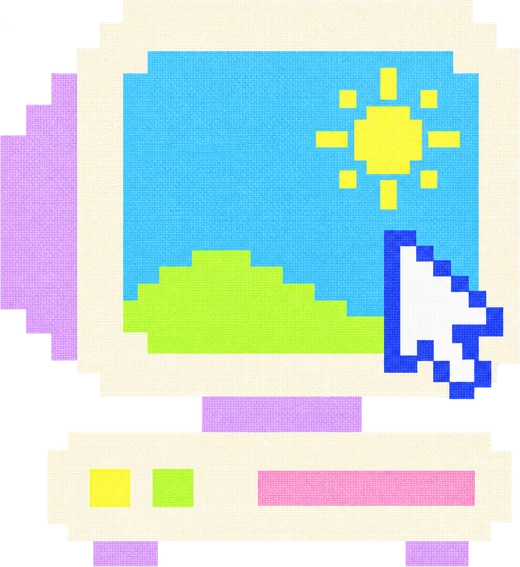
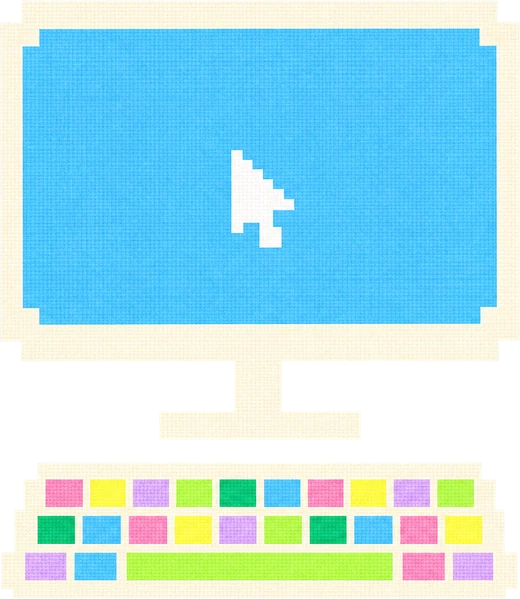
sites/dusk: smaller card graphics, a simpler computer, a notch laptop, a brain picker for models
the black notch mock becomes a pixel laptop with status chips; the models
section becomes a card where you swap the ai one bot runs on and see a
model per bot.

Claude-Session: https://claude.ai/code/session_01U69uFLMgJgS6MvZ1Fa28ZA

diff --git a/public/landing/home.css b/public/landing/home.css
@@ -144,18 +144,19 @@
 
 /* coloured cards */
 .tiles { display: grid; grid-template-columns: repeat(6, minmax(0, 1fr)); gap: 12px; }
-.tile { position: relative; grid-column: span 2; border-radius: 28px; padding: 32px; min-width: 0; min-height: 340px; overflow: hidden; display: flex; flex-direction: column; }
+.tile { position: relative; grid-column: span 2; border-radius: 28px; padding: 32px; min-width: 0; min-height: 300px; overflow: hidden; display: flex; flex-direction: column; }
 .tile.wide { grid-column: span 3; }
-.tile.wider { grid-column: span 4; min-height: 380px; }
+.tile.wider { grid-column: span 4; }
 .tile p { margin: 0; font-size: 16.5px; line-height: 1.5; letter-spacing: -0.01em; color: rgba(19, 19, 22, 0.7); }
 .t-sky { background: var(--sky); } .t-lemon { background: var(--lemon); } .t-lime { background: var(--lime); } .t-pink { background: var(--pink); } .t-lilac { background: var(--lilac); } .t-peach { background: var(--peach); } .t-cream { background: var(--cream); }
 .sticker { transition: transform 0.5s cubic-bezier(0.3, 1.5, 0.5, 1); }
 @media (hover: hover) { .tile:hover .sticker { transform: rotate(-4deg) scale(1.06); } }
-.tile.wide .tile-copy { max-width: 54%; }
-.tile.t-sky .sticker { position: absolute; right: 30px; bottom: 26px; width: 40%; height: auto; }
-.sticker.corner { position: absolute; right: 26px; top: 22px; width: 150px; height: auto; }
+.tile.wide .tile-copy, .tile.wider .tile-copy { max-width: 56%; }
+.sticker.side { position: absolute; right: 34px; bottom: 30px; width: min(32%, 196px); height: auto; }
+.tile.wider .sticker.side { width: min(30%, 208px); }
+.sticker.corner { position: absolute; right: 28px; top: 24px; width: 112px; height: auto; }
 .t-lemon .tile-copy { max-width: 62%; }
-.sticker.top { height: 158px; width: auto; align-self: flex-start; margin-bottom: auto; }
+.sticker.top { height: 118px; width: auto; align-self: flex-start; margin-bottom: auto; }
 .tile > h3 { margin-top: 30px; }
 .tile-copy.low { margin-top: auto; max-width: 440px; }
 .runs { list-style: none; margin: auto 0 0; padding: 26px 0 0; display: grid; gap: 6px; }
@@ -165,32 +166,43 @@
 .strip { display: flex; gap: 3px; flex: none; }
 .strip i { width: 6px; height: 6px; border-radius: 2px; background: var(--green); }
 .strip i.miss { background: #d9d5c3; }
-.relay { display: flex; align-items: center; gap: 10px; height: 158px; margin-bottom: auto; }
-.relay .bot { width: 78px; cursor: pointer; }
+.relay { display: flex; align-items: center; gap: 8px; height: 118px; margin-bottom: auto; }
+.relay .bot { width: 60px; cursor: pointer; }
 .relay i { position: relative; width: 34px; height: 24px; border-radius: 5px; background: #fff; box-shadow: inset 0 0 0 2px #f39ab6; animation: pass 2.4s ease-in-out infinite; }
 .relay i::after { content: ""; position: absolute; left: 9px; top: 3px; width: 13px; height: 13px; border-right: 2px solid #f39ab6; border-bottom: 2px solid #f39ab6; transform: rotate(45deg) translate(-3px, -3px); }
 .relay i:nth-of-type(2) { animation-delay: -1.2s; }
 @keyframes pass { 0%, 100% { transform: translateX(-5px); } 50% { transform: translateX(5px) rotate(4deg); } }
-.notch { position: absolute; left: 50%; top: 0; transform: translateX(-50%); width: min(500px, 88%); background: #000; color: #fff; border-radius: 0 0 26px 26px; padding: 16px 18px 14px; font-size: 14px; }
-.notch-chips { display: flex; flex-wrap: wrap; gap: 6px; margin-bottom: 8px; }
-.notch-chips span { display: inline-flex; align-items: center; gap: 7px; background: #1c1c1f; border-radius: 999px; padding: 6px 11px; font-size: 13px; color: #d9d9de; }
-.notch ul { list-style: none; margin: 0; padding: 0; }
-.notch li { display: flex; align-items: center; gap: 12px; padding: 8px 2px; }
-.notch .bot { width: 30px; }
-.notch li div { flex: 1; min-width: 0; }
-.notch li b { display: block; font-weight: 550; }
-.notch li span { display: block; color: #a4a4ad; font-size: 13px; }
-.notch .pill.yes { background: #fff; color: #000; font-size: 13px; }
+.glance { display: flex; flex-wrap: wrap; gap: 6px; margin-top: 22px !important; }
+.glance span { display: inline-flex; align-items: center; gap: 8px; background: #fff; border-radius: 999px; padding: 9px 13px; font-size: 14px; color: var(--ink); }
 
 /* models */
 .models { display: grid; grid-template-columns: minmax(0, 6fr) minmax(0, 5fr); gap: 64px; align-items: center; }
 .models .head { margin-bottom: 0; }
 .facts { list-style: none; margin: 36px 0 0; padding: 0; display: grid; gap: 18px; font-size: 16.5px; color: var(--text); max-width: 46ch; }
 .facts b { display: block; color: var(--ink); font-weight: 550; }
-.signin { display: grid; gap: 12px; width: min(440px, 100%); justify-self: end; }
-.si { display: flex; align-items: center; justify-content: center; gap: 12px; min-height: 60px; border-radius: 999px; background: #f0f0ee; font-size: 17px; font-weight: 500; }
-.more-models { display: flex; flex-wrap: wrap; justify-content: center; gap: 8px; margin: 0; }
-.more-models span { font: 400 12.5px/1 var(--mono); color: var(--ink-2); padding: 9px 12px; border-radius: 999px; box-shadow: inset 0 0 0 1px var(--line); }
+.brain { justify-self: end; width: min(500px, 100%); background: var(--lilac); border-radius: 28px; padding: 30px; }
+.brain-top { display: flex; align-items: center; gap: 18px; }
+.brain-bot { width: 84px; cursor: pointer; }
+.brain-top p { margin: 0; }
+.brain-top b { display: block; font-size: 28px; font-weight: 550; letter-spacing: -0.04em; line-height: 1.1; }
+.brain-top span { color: var(--text); font-size: 16px; }
+.brain-pick { display: grid; grid-template-columns: repeat(4, minmax(0, 1fr)); gap: 2px; margin-top: 24px; padding: 5px; border-radius: 999px; background: rgba(19, 19, 22, 0.07); }
+.brain-ind { background: #fff; }
+.brain-pick button { display: flex; align-items: center; justify-content: center; gap: 8px; min-height: 44px; font: 500 15px/1 var(--sans); color: var(--ink-2); background: none; border: 0; border-radius: 999px; cursor: pointer; transition: color 0.2s; }
+.brain-pick button[aria-selected="true"] { color: var(--ink); }
+html:not(.mk-ready) .brain-pick button[aria-selected="true"] { background: #fff; }
+.brain-line { margin: 18px 2px 0; min-height: 3em; font-size: 18px; line-height: 1.45; letter-spacing: -0.015em; color: #33333a; }
+.brain-line b { font-weight: 550; color: var(--ink); }
+.brain-label { font: 400 12.5px/1 var(--mono); color: var(--ink-2); margin: 26px 2px 10px; }
+.brain-team { list-style: none; margin: 0; padding: 0; display: grid; gap: 6px; }
+.brain-team li { display: flex; align-items: center; gap: 12px; background: rgba(255, 255, 255, 0.75); border-radius: 14px; padding: 9px 12px; font-size: 15px; }
+.brain-team .bot { width: 28px; cursor: pointer; }
+.brain-team b { font-weight: 550; }
+.brain-team span { color: var(--text); }
+.brain-team em { margin-left: auto; display: inline-flex; align-items: center; gap: 8px; font-style: normal; font-weight: 500; }
+.px-deepseek { background-color: #4d6bfe; }
+.more-models { display: flex; flex-wrap: wrap; gap: 6px; margin: 0; }
+.more-models span { font: 400 12.5px/1 var(--mono); color: var(--ink-2); padding: 9px 12px; border-radius: 999px; background: rgba(255, 255, 255, 0.75); }
 
 /* connectors */
 .belt { display: grid; gap: 10px; overflow: hidden; padding: 4px 0; -webkit-mask-image: linear-gradient(90deg, transparent, #000 9%, #000 91%, transparent); mask-image: linear-gradient(90deg, transparent, #000 9%, #000 91%, transparent); }
@@ -319,7 +331,7 @@ html:not(.mk-ready) .places button[aria-selected="true"] { background: var(--ink
   .peek { padding: 40px 32px 220px; min-height: 0; align-items: flex-start; }
   .peek-bot { width: 78%; right: -12%; bottom: -34%; }
   .models, .where, .faq { grid-template-columns: 1fr; gap: 32px; }
-  .signin { justify-self: start; }
+  .brain { justify-self: start; }
   .tile, .tile.wide, .tile.wider { grid-column: 1 / -1; }
   .steps { grid-template-columns: 1fr; }
   .day { padding: 20px 14px 150px; }
@@ -343,11 +355,9 @@ html:not(.mk-ready) .places button[aria-selected="true"] { background: var(--ink
   .app-head { padding-top: 1.2em; }
   .screen-card, .msg.me { max-width: none; width: auto; }
   .screen-card { align-self: stretch; }
-  .tile.wide .tile-copy, .t-lemon .tile-copy { max-width: none; }
-  .tile.t-sky { min-height: 460px; }
-  .tile.t-sky .sticker { width: 62%; right: 16px; bottom: 16px; }
-  .sticker.corner { position: static; width: 120px; margin-bottom: 18px; }
-  .tile.wider { min-height: 400px; }
+  .tile.wide .tile-copy, .tile.wider .tile-copy, .t-lemon .tile-copy { max-width: none; }
+  .sticker.side, .tile.wider .sticker.side { position: static; width: 150px; align-self: flex-end; margin-top: 26px; }
+  .sticker.corner { position: static; width: 100px; margin-bottom: 18px; }
   .steps > li { grid-template-columns: 1fr; gap: 22px; }
 }
 @media (prefers-reduced-motion: reduce) {

diff --git a/public/landing/index.html b/public/landing/index.html
@@ -14,7 +14,7 @@
 <link rel="preload" href="/fonts/general-sans.woff2" as="font" type="font/woff2" crossorigin>
 <link rel="stylesheet" href="/site.css?v=c4183a86">
 <link rel="stylesheet" href="/motion-kit-v2.css?v=21fb5bf1">
-<link rel="stylesheet" href="/home.css?v=c653e66d">
+<link rel="stylesheet" href="/home.css?v=7545d9a2">
 </head>
 <body class="is-home">
 <header class="bar"><a class="brand" href="/"><img src="/art/cursor-88.webp" alt="" width="28" height="28">dusk bot</a><nav><a href="/download">download</a><a href="/docs">docs</a><a href="/pricing">pricing</a><a class="cta" href="https://app.dusk.bot">sign in</a></nav></header>
@@ -124,7 +124,7 @@
   <div class="tiles">
     <article class="tile t-sky wide" data-mk-reveal>
       <div class="tile-copy"><h3>each bot gets its own computer</h3><p>it signs in to sites and clicks through them like you would. watch it live, or take the mouse back any time.</p></div>
-      <img class="sticker" src="/art/s-computer.webp?v=dac42fe1" alt="" width="520" height="567">
+      <img class="sticker side" src="/art/s-computer.webp?v=690cf13b" alt="" width="520" height="599">
     </article>
     <article class="tile t-lemon wide" data-mk-reveal>
       <img class="sticker corner" src="/art/s-clock.webp?v=67ca93f2" alt="" width="520" height="502">
@@ -148,14 +148,10 @@
       <h3>they ask before the scary stuff</h3><p>sending, buying, deleting: a bot stops and waits for your yes.</p>
     </article>
     <article class="tile t-lilac wider" data-mk-reveal>
-      <div class="notch">
-        <div class="notch-chips"><span><i class="dot is-ask"></i>needs you 1</span><span><i class="dot is-work"></i>working 2</span><span><i class="dot is-done"></i>done 1</span></div>
-        <ul>
-          <li><svg class="bot c-purple" viewBox="0 0 100 100" aria-hidden="true"><g class="body"><circle cx="31" cy="31" r="24"/><circle cx="69" cy="31" r="24"/><circle cx="31" cy="69" r="24"/><circle cx="69" cy="69" r="24"/><rect x="28" y="28" width="44" height="44"/></g><g class="eyes"><rect x="36" y="38" width="9.5" height="23" rx="4.75"/><rect x="54.5" y="38" width="9.5" height="23" rx="4.75"/></g></svg><div><b>quill</b><span>wants to run a command</span></div><em class="pill yes">allow</em></li>
-          <li><svg class="bot c-blue" viewBox="0 0 100 100" aria-hidden="true"><g class="body"><circle cx="50" cy="50" r="46"/></g><g class="eyes"><rect x="36" y="38" width="9.5" height="23" rx="4.75"/><rect x="54.5" y="38" width="9.5" height="23" rx="4.75"/></g></svg><div><b>nova</b><span>comparing 14 flights to lisbon</span></div></li>
-        </ul>
+      <div class="tile-copy"><h3>they live in your notch</h3><p>one glance at the top of your screen: who's working, who's done, who needs you.</p>
+        <p class="glance"><span><i class="dot is-ask"></i>needs you 1</span><span><i class="dot is-work"></i>working 2</span><span><i class="dot is-done"></i>done 1</span></p>
       </div>
-      <div class="tile-copy low"><h3>they live in your notch</h3><p>one glance at the top of your screen: who's working, who's done, who needs you.</p></div>
+      <img class="sticker side" src="/art/s-notch.webp?v=0b197880" alt="" width="520" height="381">
     </article>
     <article class="tile t-cream" data-mk-reveal>
       <img class="sticker top" src="/art/s-phone.webp?v=550f01a8" alt="" width="520" height="387">
@@ -170,17 +166,30 @@
     <p data-mk-reveal>dusk bot has no model of its own. sign in with the account you already have, and your bots run on it. no second bill from us, no markup.</p>
     <ul class="facts" data-mk-reveal data-mk-stagger="70">
       <li><b>your login, your plan</b>replies go straight from your machine to your provider.</li>
-      <li><b>a model per bot</b>one for writing, one for code, something cheap for the chores.</li>
       <li><b>swap any time</b>the bot keeps its chats, files and memory.</li>
     </ul>
   </div>
-  <div class="signin" data-mk-reveal data-mk-stagger="60">
-    <span class="si"><i class="px px-claude"></i>continue with claude</span>
-    <span class="si"><i class="px px-chatgpt"></i>continue with chatgpt</span>
-    <span class="si"><i class="px px-gemini"></i>continue with gemini</span>
-    <span class="si"><i class="px px-grok"></i>continue with grok</span>
-    <p class="or"><span>also</span></p>
-    <p class="more-models"><span>cursor</span><span>copilot</span><span>deepseek</span><span>kimi</span><span>qwen</span><span>opencode</span><span>cline</span><span>your own api key</span></p>
+  <div class="brain" data-mk-tabs data-mk-reveal>
+    <div class="brain-top"><svg class="bot c-blue brain-bot" viewBox="0 0 100 100" aria-hidden="true"><g class="body"><circle cx="50" cy="50" r="46"/></g><g class="eyes"><rect x="36" y="38" width="9.5" height="23" rx="4.75"/><rect x="54.5" y="38" width="9.5" height="23" rx="4.75"/></g></svg><p><b>nova</b><span>same bot. pick its brain.</span></p></div>
+    <div class="brain-pick" role="tablist" aria-label="the ai nova runs on">
+      <span class="brain-ind" data-mk-indicator aria-hidden="true"></span>
+      <button type="button" role="tab" id="bt-claude" aria-controls="bp-claude" aria-selected="true"><i class="px px-claude"></i>claude</button>
+      <button type="button" role="tab" id="bt-chatgpt" aria-controls="bp-chatgpt" aria-selected="false"><i class="px px-chatgpt"></i>chatgpt</button>
+      <button type="button" role="tab" id="bt-gemini" aria-controls="bp-gemini" aria-selected="false"><i class="px px-gemini"></i>gemini</button>
+      <button type="button" role="tab" id="bt-grok" aria-controls="bp-grok" aria-selected="false"><i class="px px-grok"></i>grok</button>
+    </div>
+    <p class="brain-line" role="tabpanel" id="bp-claude" aria-labelledby="bt-claude" tabindex="0">nova is on <b>claude</b>, signed in as you. we charge $0 for that.</p>
+    <p class="brain-line" role="tabpanel" id="bp-chatgpt" aria-labelledby="bt-chatgpt" tabindex="0">nova is on <b>chatgpt</b> now. it still remembers you like the aisle seat.</p>
+    <p class="brain-line" role="tabpanel" id="bp-gemini" aria-labelledby="bt-gemini" tabindex="0">nova is on <b>gemini</b> now. same chats, same files, nothing to move.</p>
+    <p class="brain-line" role="tabpanel" id="bp-grok" aria-labelledby="bt-grok" tabindex="0">nova is on <b>grok</b> now. took one click. nobody had to migrate anything.</p>
+    <p class="brain-label">or give every bot its own</p>
+    <ul class="brain-team">
+      <li><svg class="bot c-pink" viewBox="0 0 100 100" aria-hidden="true"><g class="body"><path d="M50 90C20 68 5 51 5 32 5 18 16 7 30 7c9 0 16 5 20 12 4-7 11-12 20-12 14 0 25 11 25 25 0 19-15 36-45 58z"/></g><g class="eyes"><rect x="36" y="30" width="9.5" height="23" rx="4.75"/><rect x="54.5" y="30" width="9.5" height="23" rx="4.75"/></g></svg><b>juno</b><span>writes like you</span><em><i class="px px-claude"></i>claude</em></li>
+      <li><svg class="bot c-orange" viewBox="0 0 100 100" aria-hidden="true"><g class="body"><path d="M10 50 30 15.4h40L90 50 70 84.6H30z" stroke-width="10" stroke-linejoin="round"/></g><g class="eyes"><rect x="36" y="38" width="9.5" height="23" rx="4.75"/><rect x="54.5" y="38" width="9.5" height="23" rx="4.75"/></g></svg><b>rivet</b><span>writes the code</span><em><i class="px px-chatgpt"></i>chatgpt</em></li>
+      <li><svg class="bot c-green" viewBox="0 0 100 100" aria-hidden="true"><g class="body"><path d="M50.0 12.0 62.3 36.0 89.0 40.3 70.0 59.5 74.1 86.2 50.0 74.0 25.9 86.2 30.0 59.5 11.0 40.3 37.7 36.0z" stroke-width="12" stroke-linejoin="round"/></g><g class="eyes"><rect x="36" y="42" width="9.5" height="23" rx="4.75"/><rect x="54.5" y="42" width="9.5" height="23" rx="4.75"/></g></svg><b>tally</b><span>does the chores</span><em><i class="px px-deepseek"></i>deepseek</em></li>
+    </ul>
+    <p class="brain-label">also works with</p>
+    <p class="more-models"><span>cursor</span><span>copilot</span><span>kimi</span><span>qwen</span><span>opencode</span><span>cline</span><span>your own api key</span></p>
   </div>
 </section>
 
@@ -351,6 +360,6 @@
 </footer>
 <script src="/motion.min.js?v=882ea65c"></script>
 <script src="/motion-kit-v2.js?v=2d0ef0af"></script>
-<script src="/home.js?v=c1f17373"></script>
+<script src="/home.js?v=ea332a01"></script>
 </body>
 </html>

diff --git a/pages/home.html b/pages/home.html
@@ -103,7 +103,7 @@
   <div class="tiles">
     <article class="tile t-sky wide" data-mk-reveal>
       <div class="tile-copy"><h3>each bot gets its own computer</h3><p>it signs in to sites and clicks through them like you would. watch it live, or take the mouse back any time.</p></div>
-      <img class="sticker" src="/art/s-computer.webp" alt="" width="520" height="567">
+      <img class="sticker side" src="/art/s-computer.webp" alt="" width="520" height="599">
     </article>
     <article class="tile t-lemon wide" data-mk-reveal>
       <img class="sticker corner" src="/art/s-clock.webp" alt="" width="520" height="502">
@@ -127,14 +127,10 @@
       <h3>they ask before the scary stuff</h3><p>sending, buying, deleting: a bot stops and waits for your yes.</p>
     </article>
     <article class="tile t-lilac wider" data-mk-reveal>
-      <div class="notch">
-        <div class="notch-chips"><span><i class="dot is-ask"></i>needs you 1</span><span><i class="dot is-work"></i>working 2</span><span><i class="dot is-done"></i>done 1</span></div>
-        <ul>
-          <li>{{bot clover purple}}<div><b>quill</b><span>wants to run a command</span></div><em class="pill yes">allow</em></li>
-          <li>{{bot circle blue}}<div><b>nova</b><span>comparing 14 flights to lisbon</span></div></li>
-        </ul>
+      <div class="tile-copy"><h3>they live in your notch</h3><p>one glance at the top of your screen: who's working, who's done, who needs you.</p>
+        <p class="glance"><span><i class="dot is-ask"></i>needs you 1</span><span><i class="dot is-work"></i>working 2</span><span><i class="dot is-done"></i>done 1</span></p>
       </div>
-      <div class="tile-copy low"><h3>they live in your notch</h3><p>one glance at the top of your screen: who's working, who's done, who needs you.</p></div>
+      <img class="sticker side" src="/art/s-notch.webp" alt="" width="520" height="381">
     </article>
     <article class="tile t-cream" data-mk-reveal>
       <img class="sticker top" src="/art/s-phone.webp" alt="" width="520" height="387">
@@ -149,17 +145,30 @@
     <p data-mk-reveal>dusk bot has no model of its own. sign in with the account you already have, and your bots run on it. no second bill from us, no markup.</p>
     <ul class="facts" data-mk-reveal data-mk-stagger="70">
       <li><b>your login, your plan</b>replies go straight from your machine to your provider.</li>
-      <li><b>a model per bot</b>one for writing, one for code, something cheap for the chores.</li>
       <li><b>swap any time</b>the bot keeps its chats, files and memory.</li>
     </ul>
   </div>
-  <div class="signin" data-mk-reveal data-mk-stagger="60">
-    <span class="si"><i class="px px-claude"></i>continue with claude</span>
-    <span class="si"><i class="px px-chatgpt"></i>continue with chatgpt</span>
-    <span class="si"><i class="px px-gemini"></i>continue with gemini</span>
-    <span class="si"><i class="px px-grok"></i>continue with grok</span>
-    <p class="or"><span>also</span></p>
-    <p class="more-models"><span>cursor</span><span>copilot</span><span>deepseek</span><span>kimi</span><span>qwen</span><span>opencode</span><span>cline</span><span>your own api key</span></p>
+  <div class="brain" data-mk-tabs data-mk-reveal>
+    <div class="brain-top">{{bot circle blue brain-bot}}<p><b>nova</b><span>same bot. pick its brain.</span></p></div>
+    <div class="brain-pick" role="tablist" aria-label="the ai nova runs on">
+      <span class="brain-ind" data-mk-indicator aria-hidden="true"></span>
+      <button type="button" role="tab" id="bt-claude" aria-controls="bp-claude" aria-selected="true"><i class="px px-claude"></i>claude</button>
+      <button type="button" role="tab" id="bt-chatgpt" aria-controls="bp-chatgpt" aria-selected="false"><i class="px px-chatgpt"></i>chatgpt</button>
+      <button type="button" role="tab" id="bt-gemini" aria-controls="bp-gemini" aria-selected="false"><i class="px px-gemini"></i>gemini</button>
+      <button type="button" role="tab" id="bt-grok" aria-controls="bp-grok" aria-selected="false"><i class="px px-grok"></i>grok</button>
+    </div>
+    <p class="brain-line" role="tabpanel" id="bp-claude" aria-labelledby="bt-claude" tabindex="0">nova is on <b>claude</b>, signed in as you. we charge $0 for that.</p>
+    <p class="brain-line" role="tabpanel" id="bp-chatgpt" aria-labelledby="bt-chatgpt" tabindex="0">nova is on <b>chatgpt</b> now. it still remembers you like the aisle seat.</p>
+    <p class="brain-line" role="tabpanel" id="bp-gemini" aria-labelledby="bt-gemini" tabindex="0">nova is on <b>gemini</b> now. same chats, same files, nothing to move.</p>
+    <p class="brain-line" role="tabpanel" id="bp-grok" aria-labelledby="bt-grok" tabindex="0">nova is on <b>grok</b> now. took one click. nobody had to migrate anything.</p>
+    <p class="brain-label">or give every bot its own</p>
+    <ul class="brain-team">
+      <li>{{bot heart pink}}<b>juno</b><span>writes like you</span><em><i class="px px-claude"></i>claude</em></li>
+      <li>{{bot hex orange}}<b>rivet</b><span>writes the code</span><em><i class="px px-chatgpt"></i>chatgpt</em></li>
+      <li>{{bot star green}}<b>tally</b><span>does the chores</span><em><i class="px px-deepseek"></i>deepseek</em></li>
+    </ul>
+    <p class="brain-label">also works with</p>
+    <p class="more-models"><span>cursor</span><span>copilot</span><span>kimi</span><span>qwen</span><span>opencode</span><span>cline</span><span>your own api key</span></p>
   </div>
 </section>
 

diff --git a/public/landing/home.js b/public/landing/home.js
@@ -24,7 +24,7 @@ if (!still) addEventListener('pointermove', (e) => { px = e.clientX; py = e.clie
 const quips = ['hi', 'busy', 'on it', 'five more minutes', 'ok ok', 'that tickles', 'did you need something', 'working, promise', 'not the face'];
 let said = 0;
 document.addEventListener('click', (e) => {
-  const b = e.target.closest?.('.relay .bot, .shapes .bot, .work .bot, .peek-bot, .hill .bot, .faq-bots .bot');
+  const b = e.target.closest?.('.relay .bot, .shapes .bot, .work .bot, .peek-bot, .hill .bot, .faq-bots .bot, .brain .bot');
   if (!b) return;
   if (!still) { b.classList.remove('hop'); void b.getBoundingClientRect(); b.classList.add('hop'); }
   const r = b.getBoundingClientRect(), q = document.createElement('span');
@@ -43,6 +43,13 @@ if (M && chat && !still && 'IntersectionObserver' in window) {
   }, { rootMargin: '0px 0px 160px 0px' });
   io.observe(chat);
 }
+
+// nova hops each time its brain is swapped
+const brainBot = document.querySelector('.brain-bot');
+if (brainBot && !still) document.querySelector('.brain-pick').addEventListener('click', (e) => {
+  if (!e.target.closest('button')) return;
+  brainBot.classList.remove('hop'); void brainBot.getBoundingClientRect(); brainBot.classList.add('hop');
+});
 
 // each job starts as "working" and flips to how it ended, one after another, the first time the day is seen
 const work = document.querySelector('.work');

diff --git a/art-src/final/prep.py b/art-src/final/prep.py
@@ -11,7 +11,7 @@ for n in ['wide-layers', 'wide-sails', 'wide-islands', 'end-meadow', 'price-sky'
 # sky straight onto trees and meadow, with the pale bands and the clouds left out, so the big $0 reads on white
 em = rgb('end-meadow'); fill = Image.new('RGB', (1000, 640)); fill.paste(em.crop((270, 150, 1270, 510)), (0, 0)); fill.paste(em.crop((270, 650, 1270, 930)), (0, 360)); print('zero', save(fill, 'zero', 1000))
 cat = Image.open('cat.png').convert('RGBA'); cat = cat.crop(cat.getchannel('A').point(lambda a: 255 if a > 16 else 0).getbbox()); print('cat', save(cat, 'cat', 600, 90))
-for n in ['s-computer', 's-clock', 's-notebook', 's-button', 's-phone']:
+for n in ['s-computer', 's-notch', 's-clock', 's-notebook', 's-button', 's-phone']:
     im = Image.open(n + '.png').convert('RGBA'); im = im.crop(im.getchannel('A').point(lambda a: 255 if a > 16 else 0).getbbox()); print(n, save(im, n, 520, 90))
 og = rgb('wide-layers'); og.crop((0, 110, 1536, 916)).resize((1200, 630), Image.LANCZOS).save(OUT + 'og.jpg', quality=86)
 for s in ['circle', 'star', 'heart', 'clover', 'hex', 'drop']: shutil.copy(f'icons/{s}.png', OUT + f'm-{s}.png')
